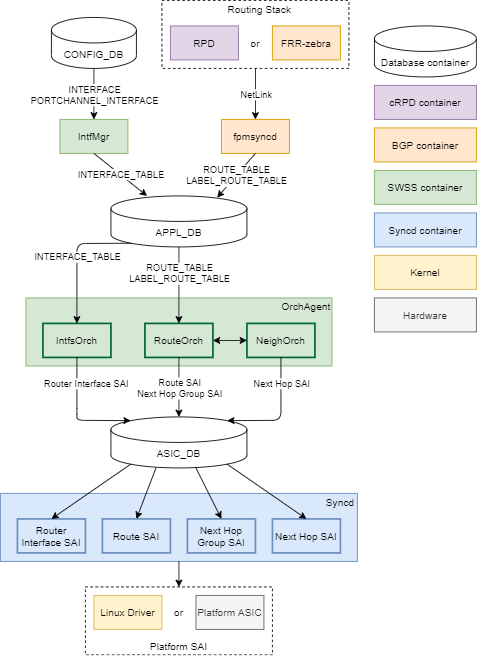
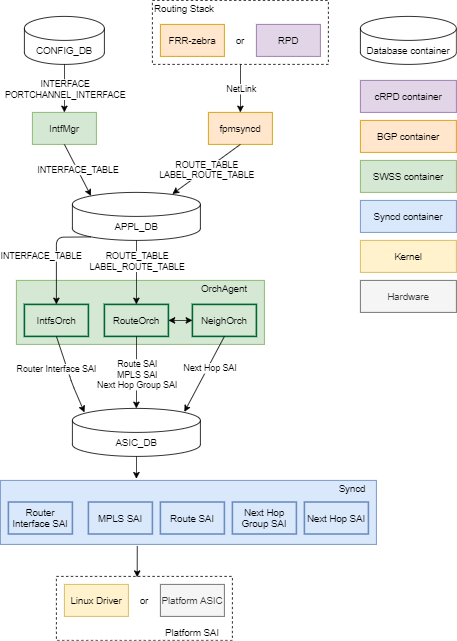
updates from MPLS subgroup feedback

diff --git a/doc/mpls/MPLS_hld.md b/doc/mpls/MPLS_hld.md
@@ -8,8 +8,8 @@
     - [Definitions/Abbreviations](#definitionsabbreviations)
     - [Overview](#overview)
     - [Requirements](#requirements)
-      - [Functional requirements](#functional-requirements)
-      - [Configuration and Management requirements](#configuration-and-management-requirements)
+      - [Functional Requirements](#functional-requirements)
+      - [Configuration and Management Requirements](#configuration-and-management-requirements)
       - [Scalability Requirements](#scalability-requirements)
       - [Warm Boot Requirements](#warm-boot-requirements)
       - [Future Requirements](#future-requirements)
@@ -42,8 +42,6 @@
       - [Router Interface](#router-interface)
       - [MPLS](#mpls)
       - [Next Hop](#next-hop)
-      - [Next Hop Group](#next-hop-group)
-      - [Switch](#switch)
     - [Configuration and management](#configuration-and-management)
       - [CLI Enhancements](#cli-enhancements)
       - [Config DB Enhancements](#config-db-enhancements)
@@ -56,9 +54,10 @@
       - [System Test cases](#system-test-cases)
     - [Open/Action items - if any](#openaction-items---if-any)
 ### Revision
-|  Rev  | Date  |  Author  | Change Description |
-| :---: | :---: | :------: | ------------------ |
-|  0.1  |       | A Pokora | Initial version    |
+|  Rev  |  Date       |  Author  | Change Description |
+| :---: | :---------: | :------: | ------------------ |
+|  0.1  | Jan-10-2021 | A Pokora | Initial version    |
+|  0.2  | Jan-19-2021 | A Pokora | Updates from MPLS community review |
 
 ### Scope
 
@@ -76,23 +75,22 @@ This document provides general information about the MPLS feature implementation
 
 ### Requirements
 
-This section describes the SONiC requirements for:
-- MPLS routes feature.
+This section describes the SONiC requirements for the MPLS feature.
 
 #### Functional requirements
 - Support to enable/disable MPLS per Interface.
 - Support for MPLS Push, Pop, and Swap routes.
-- Support for bulk MPLS in-segment entry programming.
+- Support for bulk MPLS in-segment entry SAI programming.
 - Support for CRM monitoring of MPLS in-segment used/available entries.
 
 #### Configuration and Management requirements
-- SONiC CLI support for MPLS enable/disable per Interface.
-- Configurable CRM thresholds for monitoring MPLS used/available.
+- SONiC CLI support for MPLS enable/disable per Router Interface.
+- Configurable CRM thresholds for monitoring MPLS in-segment entries used/available.
 
 #### Scalability Requirements
 - Up to max ASIC capable MPLS routes are supported.
 - Error is logged in syslog for all attempted MPLS routes after max limit is reached.
-- CRM alarms are triggered when thresholds are reached.
+- CRM notification upon reaching configurable scaling thresholds.
 
 #### Warm Boot Requirements
 - MPLS functionality continues across warm reboot.
@@ -106,7 +104,6 @@ This section describes the SONiC requirements for:
 - Integration with VS SAI.
 
 ### Architecture Design
-
 The MPLS feature extends Route and Next Hop support in SONiC to include optional MPLS label stack in addition to the existing IPv4/IPv6 address information.
 
 ### High-Level Design
@@ -120,9 +117,10 @@ The MPLS feature extends Route and Next Hop support in SONiC to include optional
 This section describes the modifications to SONiC Databases to support MPLS.
 
 ##### APPL_DB
-The existing INTERFACE_TABLE is enhanced to accept a new "mpls" enable/disable attribute.
 
 ###### INTERFACE_TABLE
+The existing INTERFACE_TABLE is enhanced to accept a new "mpls" enable/disable attribute.
+
 ``` rfc5234
 INTERFACE_TABLE|{{interface_name}}
     "mpls":{{enable|disable}} (OPTIONAL)
@@ -133,51 +131,46 @@ key                         = INTERFACE:ifname             ; Interface name
 mpls                        = "enable" / "disable"         ; Enable/disable MPLS function. Default disable
 ```
 
-The existing ROUTE_TABLE for IPv4/IPv4 prefix routes is enhanced to accept:
-- An optional MPLS label stack component in the existing "nexthop" attribute.
-- An optional new "weight" attribute.
 ###### ROUTE_TABLE
+The existing ROUTE_TABLE for IPv4/IPv6 prefix routes is enhanced to accept an optional MPLS label stack component in the existing "nexthop" formatted-string attribute.  The new format of the nexthop attribute string with MPLS label stack is: "label0/.../labelN+ip-prefix".  For IP-only next hops, the previous string format is retained and no preceding label stack information will be included.
+
 ``` rfc5234
 "ROUTE_TABLE":{{prefix}}
     "nexthop":{{nexthop_list}}
     "ifname":{{ifname_list}}
-    "weight":{{weight_list}} (OPTIONAL)
 
 ; Defines schema for IPv4/IPv6 route table attributes
 key                         = ROUTE_TABLE:prefix       ; IPv4/IPv6 prefix
 ; field                     = value
 nexthop                     = nexthop_list             ; List of nexthops.
 ifname                      = ifname_list              ; List of interfaces.
-weight                      = weight_list              ; List of weights.
 ;value annotations
 ifname                      = 1*64VCHAR                ; name of the Interface (Port Channel)
-
 ```
 
-A new LABEL_ROUTE_TABLE is introduced for MPLS routes to accept the same attributes as ROUTE_TABLE:
-- A "nexthop" attribute with optional MPLS label stack component.
-- A "ifname" attribute.
-- An optional new "weight" attribute.
 ###### LABEL_ROUTE_TABLE
+A new LABEL_ROUTE_TABLE is introduced for MPLS in-segment entries to accept the same attributes as ROUTE_TABLE:
+- A "nexthop" formatted-string attribute with optional MPLS label stack component.
+- A "ifname" attribute.
+
 ``` rfc5234
 "LABEL_ROUTE_TABLE":{{mpls_label}}
     "nexthop":{{nexthop_list}}
     "ifname":{{ifname_list}}
-    "weight":{{weight_list}} (OPTIONAL)
 
 ; Defines schema for MPLS label route table attributes
 key                         = LABEL_ROUTE_TABLE:mpls_label ; MPLS label
 ; field                     = value
 nexthop                     = STRING                   ; Comma-separated list of nexthops.
 ifname                      = STRING                   ; Comma-separated list of interfaces.
-weight                      = STRING                   ; Comma-separated list of weights.
 ```
 
 #### Software Modules
-This section describes modifications to software modules to support MPLS and weighted ECMP routes.
+This section describes modifications to SONiC infrastructure software modules to support MPLS.
+
 ##### NetLink
 Netlink is an existing open source library imported to SONiC.
-Modifications to the existing NetLink implementation were needed to support MPLS routes.
+Modifications to the existing NetLink MPLS implementation were needed to support MPLS attributes.
 ###### Functions
 New accessors were added to retrieve the MPLS NH destination and TTL values:
 ```
@@ -186,32 +179,39 @@ New accessors were added to retrieve the MPLS NH destination and TTL values:
   /* Accessor to retrieve MPLS TTL */
   extern uint8_t		rtnl_route_nh_get_encap_mpls_ttl(struct rtnl_nexthop *);
 ```
+
 ##### IntfMgr
 IntfMgr is an existing daemon in SWSS container that monitors operations in CONFIG_DB on INTERFACE and PORTCHANNEL_INTERFACE tables.
-IntfMgr now additionally processes the "mpls" attribute and propagates this attribute to APPL_DB.
+
+For MPLS, IntfMgr is modified to additionally process the "mpls" attribute and propagate this attribute to APPL_DB.
 
 ##### FPM Syncd
-FPM Syncd is an existing daemon in BGP container that monitors NetLink messages from the SONiC routing stack.
-New support has been added to FPM Syncd for MPLS to process MPLS related Route and Next Hop information in the NetLink messages and propagate this information in the APPL_DB.
+FPM Syncd is an existing daemon in BGP container that monitors NetLink messages from the SONiC routing stack for Route and Next Hop information.
+
+New support has been added to FPM Syncd for MPLS to process MPLS related Route and Next Hop information in the received NetLink messages and propagate this information to the APPL_DB.
 ###### Functions
 The following are new functions for fpmsyncd:
 ```
   /* Handler for rtnl messages with MPLS route */
   void RouteSync::onLabelRouteMsg(int nlmsg_type, struct nl_object *obj);
 ```
+
 ##### IntfsOrch
 IntfsOrch is an existing component of the OrchAgent daemon in the SWSS container.  IntfsOrch monitors operations on Interface related tables in APPL_DB and converts those operations into SAI commands to manage the Router Interface object.
 
-For MPLS, IntfsOrch has been extended to detect the new per-RIF MPLS enable/disable attribute in the APPL_DB and propagate this attribute to the ASIC_DB via SAI_ROUTER_INTERFACE_ATTR_ADMIN_MPLS_STATE.  This MPLS behavior parallels the existing IntfsOrch behavior for IPv4/IPv6 with SAI_ROUTER_INTERFACE_ATTR_ADMIN_IPV4_STATE and SAI_ROUTER_INTERFACE_ATTR_ADMIN_IPV6_STATE.
+For MPLS, IntfsOrch has been extended to detect the new per-RIF MPLS enable/disable attribute in the APPL_DB and propagate this attribute to the ASIC_DB via SAI_ROUTER_INTERFACE_ATTR_ADMIN_MPLS_STATE.  This MPLS behavior parallels the existing IntfsOrch behavior for IPv4/IPv6 with SAI_ROUTER_INTERFACE_ATTR_ADMIN_V4_STATE and SAI_ROUTER_INTERFACE_ATTR_ADMIN_V6_STATE.
 ###### Functions
 The following are new functions for IntfsOrch:
 ```
   /* Handler to enable/disable MPLS per Interface */
   bool IntfsOrch::setRouterIntfMpls(Port& port)
 ```
-##### RouteOrch
-RouteOrch is an existing component of the OrchAgent daemon in the SWSS container.  RouteOrch monitors operations on Route related tables in APPL_DB and converts those operations in SAI commands to manage Route and Inseg entries.  Additionally RouteOrch coordinates Next Hop object operations with NeighOrch and converts operations into SAI commands to manage Next Hop Group objects.
 
+##### RouteOrch
+RouteOrch is an existing component of the OrchAgent daemon in the SWSS container.  RouteOrch monitors operations on Route related tables in APPL_DB and converts those operations in SAI commands to manage Route and In-Segment entries.  Additionally RouteOrch coordinates Next Hop object operations with NeighOrch and converts operations into SAI commands to manage Next Hop Group objects.
+
+For MPLS, RouteOrch was modified to monitor updates to the new APPL_DB LABEL_ROUTE_TABLE.  RouteOrch translates all updates to LABEL_ROUTE_TABLE to equivalent SAI requests for SAI MPLS API.
+NextHop processing for updates from both the new LABEL_ROUTE_TABLE and the existing ROUTE_TABLE has been extended to detect possible MPLS LabelStack content and propagate this additional information to NeighOrch for SAI handling.
 ###### Functions
 The following are new functions for RouteOrch:
 ```
@@ -222,20 +222,29 @@ The following are new functions for RouteOrch:
   /* Handler to process MPLS route removal from LABEL_ROUTE_TABLE */
   bool removeLabelRoute(LabelRouteBulkContext& ctx);
 ```
+
 ##### NeighOrch
 NeighOrch is an existing component of the OrchAgent daemon in the SWSS container.  NeighOrch monitors operations on Neighbor related tables in APPL_DB.  Additionally NeighOrch coordinates Next Hop operations with RouteOrch and converts operations into SAI commands to manage Next Hop objects.
+
 For MPLS, NeighOrch has been extended to send create/remove SAI requests for MPLS NextHop objects (ie, NextHop objects that include non-empty LabelStack information) when associated Neighbor objects are created/removed. This MPLS NextHop behavior parallels the existing IPv4/IPv6 NextHop behavior in NeighOrch.
 ###### Functions
-The following are new functions for NeighOrch:
+Existing functions from NeighOrch are updated to include NextHopKey parameter instead of IpAddress and visibility was raised to public for RouteOrch accessbility.
+```
+    bool hasNextHop(const NextHopKey&);
+    bool addNextHop(const NextHopKey&);
+    bool removeNextHop(const NextHopKey&);
+```
+
 ##### CrmOrch
-CrmOrch is an existing component of the OrchAgent daemon in the SWSS container.  CrmOrch monitors resource usage in the SONiC system and triggers alarms when configurable thresholds are reached.  
-For MPLS, CrmOrch has been extended to monitor the number of MPLS in-segment entries against the platform-specific number of entries available.  To facilitate this, a new CRM resource type CRM_MPLS_INSEG has been added to CrmOrch and mapped to the SAI Switch attribute SAI_SWITCH_ATTR_AVAILABLE_MPLS_INSEG_ENTRY for querying.  This MPLS behavior parallels the existing IPv4/IPv6 behavior with CRM_IPV4_ROUTE/SAI_SWITCH_ATTR_AVAILABLE_IPV4_ROUTE_ENTRY and CRM_IPV6_ROUTE/SAI_SWITCH_ATTR_AVAILABLE_IPV6_ROUTE_ENTRY.
+CrmOrch is an existing component of the OrchAgent daemon in the SWSS container.  CrmOrch monitors resource usage in the SONiC system and triggers alarms when configurable thresholds are reached.
+
+For MPLS, CrmOrch has been extended to monitor the number of MPLS in-segment entries against the platform-specific number of entries available.  To facilitate this, a new CRM resource type CRM_MPLS_INSEG has been added to CrmOrch and mapped to the existing SAI object type SAI_OBJECT_TYPE_INSEG_ENTRY for querying via sai_object_type_get_availability().  This MPLS behavior parallels the existing IPv4/IPv6 behavior with CRM_IPV4_ROUTE/SAI_SWITCH_ATTR_AVAILABLE_IPV4_ROUTE_ENTRY and CRM_IPV6_ROUTE/SAI_SWITCH_ATTR_AVAILABLE_IPV6_ROUTE_ENTRY.
 ###### Functions
 No new functions were required for CrmOrch MPLS support.
 
 ##### Label/LabelStack
 Label and LabelStack are new type utilities of the OrchAgent daemon in the SWSS container.
-These types are used to represent the MPLS label or label stack when found in a route or next hop.
+These types are introduced to represent the MPLS label or label stack when found in an in-segment entry or next hop.
 ```
 typedef uint32_t Label;
 class LabelStack
@@ -244,24 +253,25 @@ class LabelStack
 private:
     std::set<Label> m_labelstack;
 };
-
 ```
 ##### NextHopKey
 NextHopKey is an existing utility of the OrchAgent daemon in the SWSS container.  NextHopKey is used by both RouteOrch and NeighOrch to coordinate Next Hop operations.
-NextHopKey class is modified to include LabelStack and weight member data.
+
+For MPLS, the NextHopKey struct is modified to include a LabelStack field.
 ```
 struct NextHopKey
 {
     LabelStack          label_stack;    // MPLS label stack
     IpAddress           ip_address;     // neighbor IP address
     string              alias;          // incoming interface alias
-    uint8_t             weight;         // NH weight for NHGs
     ... struct definition abbreviated ...
 };
 ```
+The LabelStack field in NextHopKey would contain an empty set of Labels for IPv4/IPv6 next hops and a non-empty set of Labels for MPLS.
+
 ##### Syncd
 Syncd is an existing daemon of the Syncd container which handles all events driven by the ASIC_DB.
-Modifications were made to fully support sairedis handling of the existing SAI MPLS API key: sai_inseg_entry_t.
+For MPLS, modifications were made to fully support sairedis handling of the existing SAI MPLS API key: sai_inseg_entry_t.
 ```
 /**
  * @brief In segment entry
@@ -284,8 +294,7 @@ typedef struct _sai_inseg_entry_t
 ```
 
 ### SAI API
-
-This section describes SAI APIs used to support MPLS and weighted ECMP routes.
+This section describes SAI APIs used and enhanced to support MPLS.
 
 #### Router Interface
 Full details about current SAI Router Interface API and attributes are described here:
@@ -302,13 +311,14 @@ To facilitate MPLS functionality, the following update was made to the SAI Route
      */
     SAI_ROUTER_INTERFACE_ATTR_ADMIN_MPLS_STATE,
 ```
+
 #### MPLS
 Full details about current SAI MPLS API and attributes are described here:
 https://github.com/opencomputeproject/SAI/blob/master/inc/saimpls.h
 
 The entirety of the existing SAI MPLS API definition is now introduced to SONiC orchagent to facilitate MPLS route functionality.
 
-Additionally, the following has been added to the SAI MPLS API defintion for to facilitate bulk MPLS route operations for capable platforms:
+Additionally, the following has been added to the SAI MPLS API definition for to facilitate bulk MPLS route operations for capable platforms:
 ```
 /**
  * @brief Bulk create In Segment entry
@@ -421,6 +431,7 @@ typedef struct _sai_mpls_api_t
 
 } sai_mpls_api_t;
 ```
+
 #### Next Hop
 Full details about SAI Next Hop API and attributes are described here:
 https://github.com/opencomputeproject/SAI/blob/master/inc/sainexthop.h
@@ -438,26 +449,11 @@ The following existing attribute is now introduced to SONiC orchagent to facilit
      */
     SAI_NEXT_HOP_ATTR_LABELSTACK,
 ```
-#### Switch
-Full details about SAI Switch API and attributes are described here:
-https://github.com/opencomputeproject/SAI/blob/master/inc/saiswitch.h
-
-To facilitate CRM support for MPLS, the following update was made to the SAI Switch API:
-```
-    /**
-     * @brief Available MPLS in segment entries
-     *
-     * @type sai_uint32_t
-     * @flags READ_ONLY
-     */
-    SAI_SWITCH_ATTR_AVAILABLE_MPLS_INSEG_ENTRY,
-```
 
 ### Configuration and management
 This section should have sub-sections for all types of configuration and management related design. Example sub-sections for "CLI" and "Config DB" are given below. Sub-sections related to data models (YANG, REST, gNMI, etc.,) should be added as required.
 
 #### CLI Enhancements
-
 A new SONiC CLI command is introduced to configure interfaces for MPLS.
 
     # Enable/disable MPLS per INTERFACE.
@@ -465,8 +461,9 @@ A new SONiC CLI command is introduced to configure interfaces for MPLS.
 
 #### Config DB Enhancements
 
-The existing INTERFACE table is enhanced to accept a new "mpls" enable/disable attribute.
 ##### INTERFACE
+The existing INTERFACE table is enhanced to accept a new "mpls" enable/disable attribute.
+
 ``` rfc5234
 INTERFACE|{{ifname}}
     "mpls":{{enable|disable}} (OPTIONAL)
@@ -479,8 +476,9 @@ ifname                   = 1*64VCHAR           ; name of the Interface
 mpls                     = "enable"/"disable"  ; Enable/disable MPLS function. Default is disable
 ```
 
-The existing PORTCHANNEL_INTERFACE table is enhanced to accept a new "mpls" enable/disable attribute.
 ##### PORTCHANNEL_INTERFACE
+The existing PORTCHANNEL_INTERFACE table is enhanced to accept a new "mpls" enable/disable attribute.
+
 ``` rfc5234
 PORTCHANNEL_INTERFACE|{{ifname}}
     "mpls":{{enable|disable}} (OPTIONAL)
@@ -503,9 +501,9 @@ In this document, MPLS support is only for static LSP route support. The scope o
 Using external routing controller to set up static LSP route for push/pop/swap operation on MPLS traffic and verify traffic is passing.
 
 #### Unit Test cases
-- Using Juniper cRPD set push operation LSP, observe ip traffic goes through router and egress side will have MPLS format with correct label.
-- Using Juniper cRPD set pop operation LSP, observe mpls with single label traffic goes through router and egress side will have IP packets.
-- Using Juniper cRPD set swap operation LSP, observe mpls traffic goes through router and egress side will have MPLS format with different label.
+- Using Juniper cRPD set push operation LSP, observe IP traffic goes through router and egress side will have MPLS format with correct label.
+- Using Juniper cRPD set pop operation LSP, observe MPLS with single label traffic goes through router and egress side will have IP packets.
+- Using Juniper cRPD set swap operation LSP, observe MPLS traffic goes through router and egress side will have MPLS format with different label.
 #### System Test cases
 Not available
 ### Open/Action items - if any
